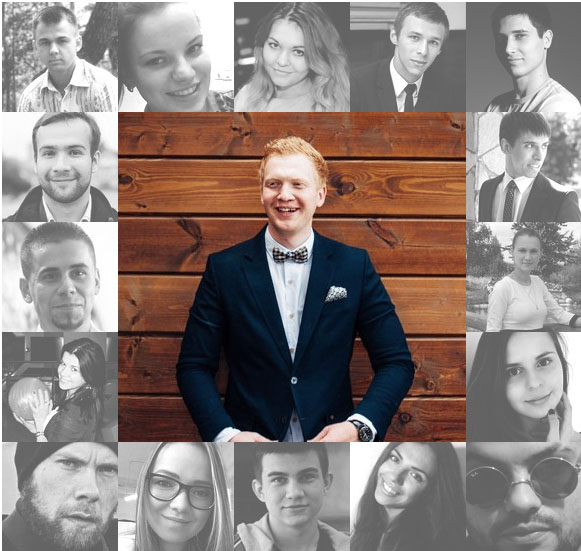
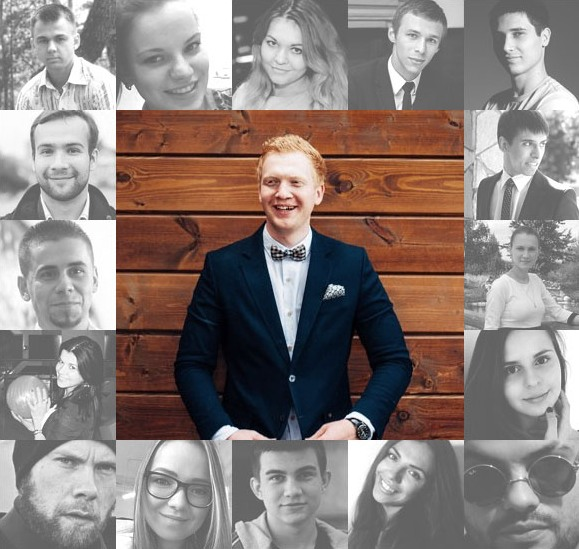
team-gallery directive

diff --git a/client/app/team-gallery_directive/team-gallery_directive.js b/client/app/team-gallery_directive/team-gallery_directive.js
@@ -1,0 +1,105 @@
+'use strict';
+
+angular.module('onlinelabApp')
+  .directive('teamGallery', function () {
+    return {
+      templateUrl: 'app/team-gallery_directive/team-gallery_directive.html',
+      restrict: 'EA',
+      link: function (scope, element, attrs) {
+        scope.teamPhotos = [
+          {
+            smallPhoto: "../../assets/images/team-gallery/small/1.jpg",
+            largePhoto: "../../assets/images/team-gallery/large/1.jpg"
+          },
+          {
+            smallPhoto: "../../assets/images/team-gallery/small/2.jpg",
+            largePhoto: "../../assets/images/team-gallery/large/2.jpg"
+          },
+          {
+            smallPhoto: "../../assets/images/team-gallery/small/3.jpg",
+            largePhoto: "../../assets/images/team-gallery/large/3.jpg"
+          },
+          {
+            smallPhoto: "../../assets/images/team-gallery/small/4.jpg",
+            largePhoto: "../../assets/images/team-gallery/large/4.jpg"
+          },
+          {
+            smallPhoto: "../../assets/images/team-gallery/small/5.jpg",
+            largePhoto: "../../assets/images/team-gallery/large/5.jpg"
+          },
+          {
+            smallPhoto: "../../assets/images/team-gallery/small/6.jpg",
+            largePhoto: "../../assets/images/team-gallery/large/6.jpg"
+          },
+          {
+            smallPhoto: "../../assets/images/team-gallery/small/7.jpg",
+            largePhoto: "../../assets/images/team-gallery/large/7.jpg"
+          },
+          {
+            smallPhoto: "../../assets/images/team-gallery/small/8.jpg",
+            largePhoto: "../../assets/images/team-gallery/large/8.jpg"
+          },
+          {
+            smallPhoto: "../../assets/images/team-gallery/small/9.jpg",
+            largePhoto: "../../assets/images/team-gallery/large/9.jpg"
+          },
+          {
+            smallPhoto: "../../assets/images/team-gallery/small/10.jpg",
+            largePhoto: "../../assets/images/team-gallery/large/10.jpg"
+          },
+          {
+            smallPhoto: "../../assets/images/team-gallery/small/11.jpg",
+            largePhoto: "../../assets/images/team-gallery/large/11.jpg"
+          },
+          {
+            smallPhoto: "../../assets/images/team-gallery/small/12.jpg",
+            largePhoto: "../../assets/images/team-gallery/large/12.jpg"
+          },
+          {
+            smallPhoto: "../../assets/images/team-gallery/small/13.jpg",
+            largePhoto: "../../assets/images/team-gallery/large/13.jpg"
+          },
+          {
+            smallPhoto: "../../assets/images/team-gallery/small/14.jpg",
+            largePhoto: "../../assets/images/team-gallery/large/14.jpg"
+          },
+          {
+            smallPhoto: "../../assets/images/team-gallery/small/15.jpg",
+            largePhoto: "../../assets/images/team-gallery/large/15.jpg"
+          },
+          {
+            smallPhoto: "../../assets/images/team-gallery/small/16.jpg",
+            largePhoto: "../../assets/images/team-gallery/large/16.jpg"
+          }
+        ];
+
+        //Add small images
+        for (var i=0; i< scope.teamPhotos.length; i++){
+          var img = $('<img src="' + scope.teamPhotos[i].smallPhoto + '">');
+          img
+            .click(function(){
+              changePhoto(this);
+            })
+            .hover(function(){
+              changePhoto(this);
+            });
+          $($('#team-gallery td.team-gallery-small-img')[i]).append(img);
+        }
+        //Add large image
+        var largeImg = $('<img src="' + scope.teamPhotos[0].largePhoto + '">');
+        $('#team-gallery td.team-gallery-large-img').append(largeImg);
+
+
+        //Change photo function
+        var changePhoto = function(elem){
+          var url = $(elem).attr('src');
+          url = url.replace('small', 'large');
+          
+          //Add large image
+          var largeImg = $('<img src="' + url + '">');
+          $('#team-gallery td.team-gallery-large-img').empty();
+          $('#team-gallery td.team-gallery-large-img').append(largeImg);
+        }
+      }
+    };
+  });

diff --git a/client/app/team-gallery_directive/team-gallery_directive.html b/client/app/team-gallery_directive/team-gallery_directive.html
@@ -1,0 +1,29 @@
+<table id="team-gallery" border="0" cellspacing="0">
+    <tr>
+        <td class="team-gallery-small-img"></td>
+        <td class="team-gallery-small-img"></td>
+        <td class="team-gallery-small-img"></td>
+        <td class="team-gallery-small-img"></td>
+        <td class="team-gallery-small-img"></td>
+    </tr>
+    <tr>
+        <td class="team-gallery-small-img"></td>
+        <td class="team-gallery-large-img" colspan="3" rowspan="3"></td>
+        <td class="team-gallery-small-img"></td>
+    </tr>
+    <tr>
+        <td class="team-gallery-small-img"></td>
+        <td class="team-gallery-small-img"></td>
+    </tr>
+    <tr>
+        <td class="team-gallery-small-img"></td>
+        <td class="team-gallery-small-img"></td>
+    </tr>
+    <tr>
+        <td class="team-gallery-small-img"></td>
+        <td class="team-gallery-small-img"></td>
+        <td class="team-gallery-small-img"></td>
+        <td class="team-gallery-small-img"></td>
+        <td class="team-gallery-small-img"></td>
+    </tr>
+</table>

diff --git a/client/app/app.less b/client/app/app.less
@@ -114,6 +114,7 @@ h1{
 
 @import 'header_directive/header_directive.less'; /* Import header styles */
 @import 'footer_directive/footer_directive.less'; /* Import footer styles */
+@import 'team-gallery_directive/team-gallery_directive.less'; /* Import team-gallery styles */
 @import 'development/development.less';           /* Import development page styles */
 @import 'project/project.less';                   /* Import project page styles */
 @import 'blog/blog.less';                         /* Import blog page styles */

diff --git a/client/index.html b/client/index.html
@@ -69,6 +69,7 @@
           <script src="app/portfolio/portfolio.js"></script>
           <script src="app/project/project.controller.js"></script>
           <script src="app/slick_directive/slick_directive.directive.js"></script>
+          <script src="app/team-gallery_directive/team-gallery_directive.js"></script>
           <script src="app/team/team.controller.js"></script>
           <script src="components/navbar/navbar.controller.js"></script>
           <!-- endinjector -->

diff --git a/client/app/team-gallery_directive/team-gallery_directive.less b/client/app/team-gallery_directive/team-gallery_directive.less
@@ -1,0 +1,19 @@
+#team-gallery{
+    height: 550px;
+    width: 580px;
+
+    td{
+        margin: 0;
+        padding: 0;
+    }
+
+    .team-gallery-small-img{
+      cursor: pointer;
+      height: 110px;
+      width: 116px;
+    }
+    .team-gallery-large-img{
+      height: 330px;
+      width: 348px;
+    }
+}

diff --git a/client/app/main/main.html b/client/app/main/main.html
@@ -300,8 +300,10 @@
 		</div>
 		<div class="col-lg-6">
 			<div class = "mg_t_75 mg_b_60 caption">Наша команда</div>
-			<img src="/assets/images/main/command.jpg"/>
-		</div>		
+			<!-- <img src="/assets/images/main/command.jpg"/> -->
+			<team-gallery></team-gallery>
+		</div>
+
 	</div>
 </div>
 
